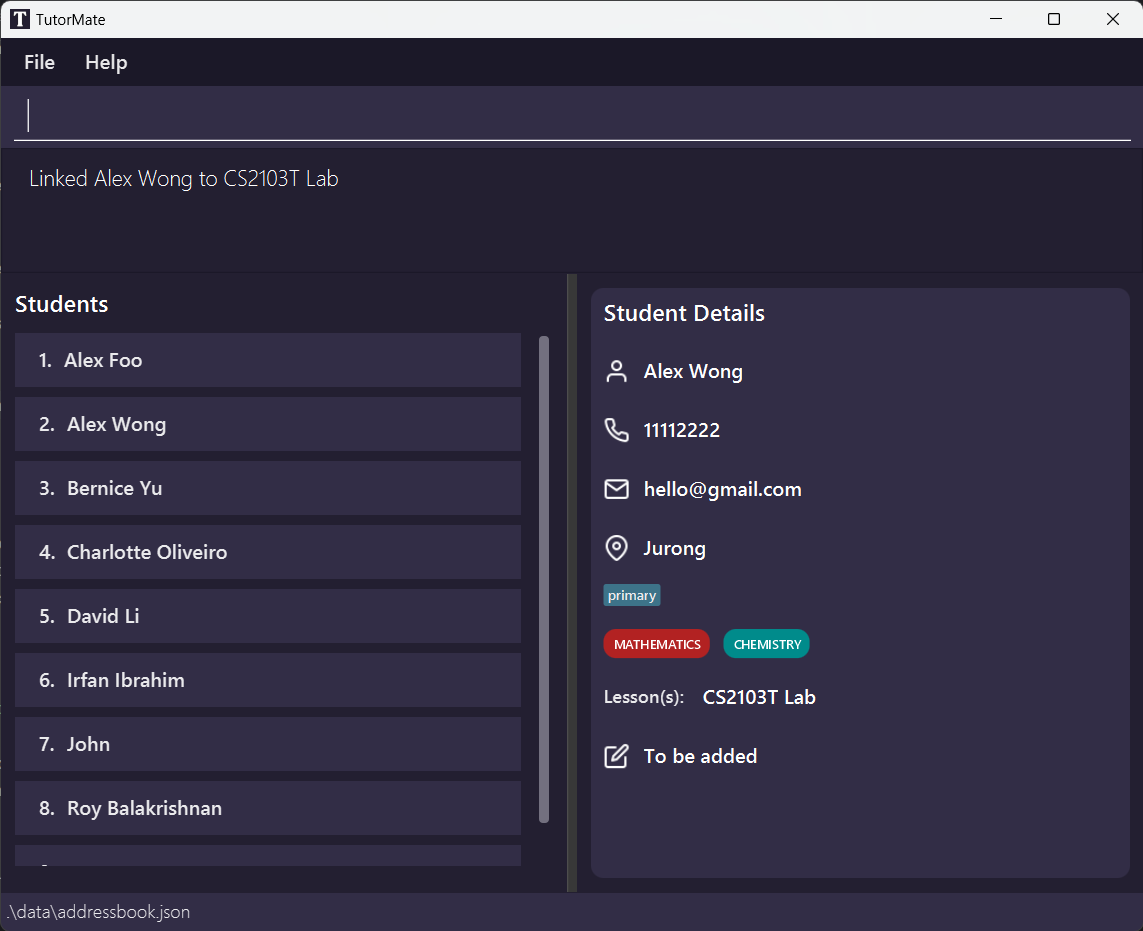
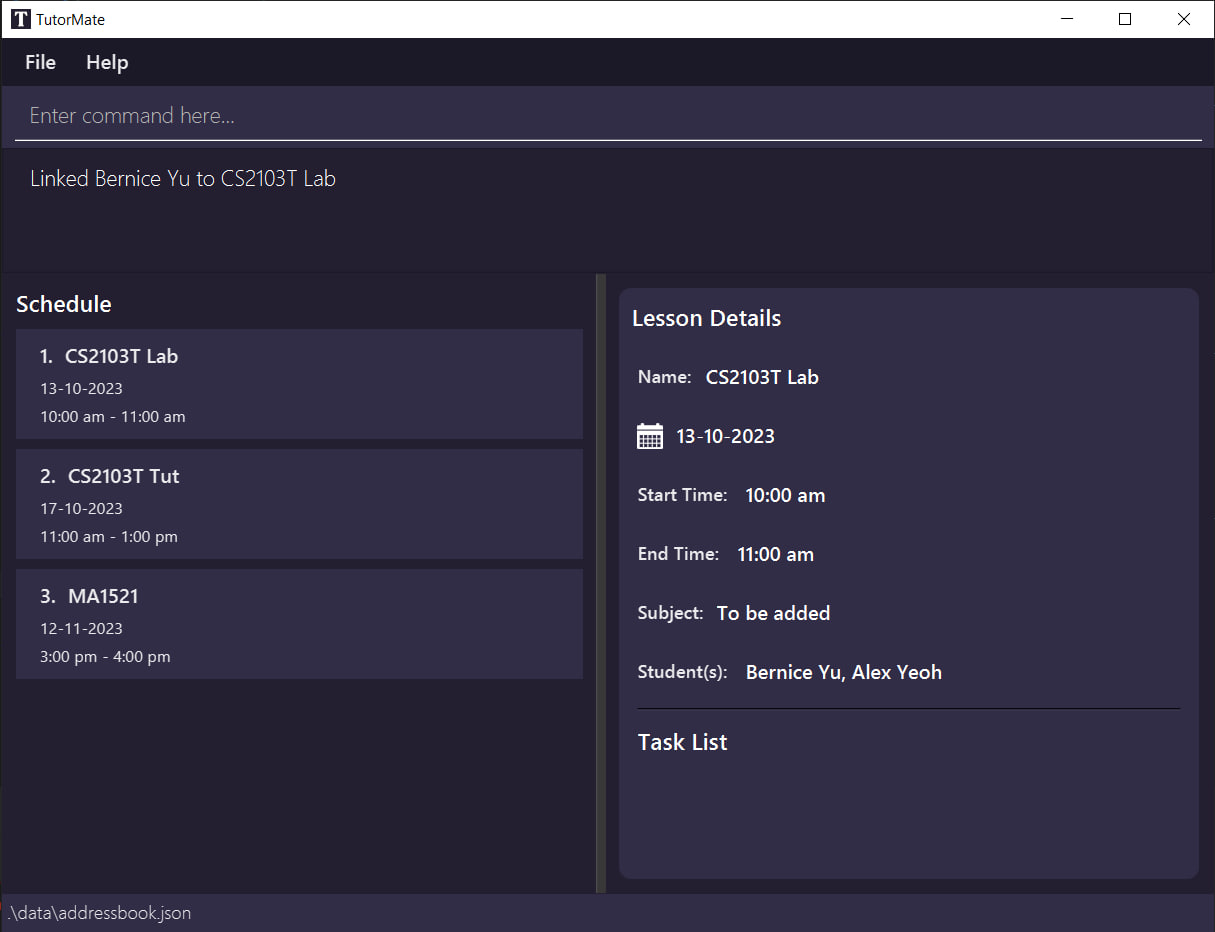
Add linkTo command

diff --git a/docs/TempUG.md b/docs/TempUG.md
@@ -796,138 +796,113 @@ For example, filter -before 2023/10/10 -subject physics
 Note you should only use one of -before, -on, -after at a time.
 ```
 
-#### For task list:
-Filtering is not supported in the Task List at this time.
+#### For Task:
+Filtering is not supported in the Task List at this time!
 
 <br>
 
 ### Linking students to lessons (and vice versa) : `linkTo`
-
-About the feature (generally that is similar across states)
-
-Format: `command COMPULSORY [optional]` (if same command format across states)
-* Format info 1
-* Format info 2
-
-<box type="tip" seamless> 
-
-**Tips:**
-- Tip 1
-- Tip 2
-
-</box>
+You can link lessons to students, and vice versa. For example, if a lesson has a few students, you can link each of the students to the lesson, so that you can quickly see who is attending this specific lesson.  
 
 
-#### For student list:
+#### For Student:
+<box type="info" seamless>
 
-Format: `command COMPULSORY [optional]` (for list specific format)
-* Format info 1
-* Format info 2
+You must be in the **_STUDENT list_** and are viewing a student to run this command. Type `list STUDENTS` to go to the **_STUDENT list_**, then type `show INDEX` to select a student to link lessons to.</box>
+Format: `linkTo LESSON_NAME` (for list specific format)
+* `LESSON_NAME` is the name of the lesson you would like to link to.
+* * Refer to `LESSON_NAME`'s constraints [here](#parameter-summary).
 
 <box type="tip" seamless>
 
 **Tips:**
-- Tip 1
-- Tip 2
+- You can link a student to multiple lessons. Simply run the `linkTo` command repeatedly.
+- `LESSON_NAME` is not case-sensitive. This means that "CS2103T Lab" and "cs2103T lab" are treated as the same lesson.
 
 </box>
 
+<box type="warning" seamless>
+
+As of now, you **cannot** unlink a lesson from a student. Use caution when running the `linkTo` command.
+</box>
+
 Example usages:
-* `some code here`
-* `another code here`
+* `linkTo CS2103T Lab`
 
 Success outputs:
-* Input: `code with compulsory parameters`
-* Input: `code with compulsory and optional parameters`
+* Input: `linkTo CS2103T Lab`
 ```
-This block of code is for success outputs
+Linked Alex Wong to CS2103T Lab
 ```
+![Success for linking to lesson](images/linkTo/linkTo_lesson_positive.png)
 Failure outputs:
-* Input: `invalid command code here`
-  * Error: Explanation and solution here, this is because the flag has an incorrect value, bla bla bla
+* Current state: In the ___STUDENT list___ and no student is selected
+* Input: `linkTo CS2103T Lab`
+  * Error: A student is not yet selected. Select a student using `show INDEX` first.
 ```
-Invalid command with the error message here
-```
-
-* Input: `invalid command code here`
-  * Error: Explanation and solution here, this is because the flag has an incorrect value, bla bla bla
-```
-Invalid command with the error message here
+No student is shown
+LinkTo command usage: linkTo [LESSON_NAME]
+Example: linkTo CS2103T lab1
+Note: This command is only available when a student is shown
 ```
 
-#### For schedule list:
+* Current state: In the ___STUDENT list___ and a student is selected
+* Input: `linkTo CS2109 Lab`
+  * Error: No such lesson with the name "CS2109 Lab". Make sure the lesson's name is correct and try again.
+```
+No such lesson
+```
 
-Format: `command COMPULSORY [optional]` (for list specific format)
-* Format info 1
-* Format info 2
+#### For Schedule:
+<box type="info" seamless>
+
+You must be in the **_SCHEDULE list_** and are viewing a lesson to run this command. Type `list SCHEDULE` to go to the **_SCHEDULE list_**, then type `show INDEX` to select a lesson to link students to.</box>
+Format: `linkTo STUDENT_NAME` (for list specific format)
+* `STUDENT_NAME` is the name of the student you would like to link to.
+* Refer to `STUDENT_NAME`'s constraints [here](#parameter-summary).
 
 <box type="tip" seamless>
 
 **Tips:**
-- Tip 1
-- Tip 2
+- You can link a lesson to multiple students. Simply run the `linkTo` command repeatedly.
+- `STUDENT_NAME` is not case-sensitive. This means that "Alex Yeoh" and "alex yeoh" are treated as the same student.
 
 </box>
 
-Example usages:
-* `some code here`
-* `another code here`
+<box type="warning" seamless>
 
-Success outputs:
-* Input: `code with compulsory parameters`
-* Input: `code with compulsory and optional parameters`
-```
-This block of code is for success outputs
-```
-Failure outputs:
-* Input: `invalid command code here`
-  * Error: Explanation and solution here, this is because the flag has an incorrect value, bla bla bla
-```
-Invalid command with the error message here
-```
-
-* Input: `invalid command code here`
-  * Error: Explanation and solution here, this is because the flag has an incorrect value, bla bla bla
-```
-Invalid command with the error message here
-```
-
-#### For task list:
-
-Format: `command COMPULSORY [optional]` (for list specific format)
-* Format info 1
-* Format info 2
-
-<box type="tip" seamless>
-
-**Tips:**
-- Tip 1
-- Tip 2
-
+As of now, you **cannot** unlink a student from a lesson. Use caution when running the `linkTo` command.
 </box>
 
 Example usages:
-* `some code here`
-* `another code here`
+* `linkTo Bernice Yu`
 
 Success outputs:
-* Input: `code with compulsory parameters`
-* Input: `code with compulsory and optional parameters`
+* Input: `linkTo Bernice Yu`
 ```
-This block of code is for success outputs
+Linked Bernice Yu to CS2103T Lab
 ```
+![Success for linking to lesson](images/linkTo/linkTo_lesson_positive.png)
 Failure outputs:
-* Input: `invalid command code here`
-  * Error: Explanation and solution here, this is because the flag has an incorrect value, bla bla bla
+* Current state: In the ___SCHEDULE list___ and no lesson is selected
+* Input: `linkTo Bernice Yu`
+  * Error: A student is not yet selected. Select a student using `show INDEX` first.
 ```
-Invalid command with the error message here
+No lesson is shown
+LinkTo command usage: linkTo [STUDENT_NAME]
+Example: linkTo Alice Pauline
+Note: This command is only available when a lesson is shown
 ```
 
-* Input: `invalid command code here`
-  * Error: Explanation and solution here, this is because the flag has an incorrect value, bla bla bla
+* Current state: In the ___SCHEDULE list___ and a lesson is selected
+* Input: `linkTo Bernice Yong`
+  * Error: No such student with the name "Bernice Yong". Make sure the student's name is correct and try again.
 ```
-Invalid command with the error message here
+No such student with name Bernice Yong found
 ```
+
+#### For Task:
+This feature is not used for tasks!
 
 <br>
 
